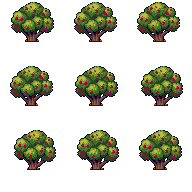
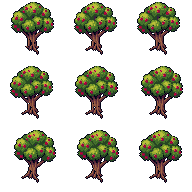
Pomar: tira só a terra do pé da árvore adulta e mantém o tronco inteiro com as raízes
Claude-Session: https://claude.ai/code/session_012SXtDuxjuZQWwiQVR1hLfA

diff --git a/tools/assets/strip_tree_base.py b/tools/assets/strip_tree_base.py
@@ -1,44 +1,60 @@
 # Uso: python3 -I tools/assets/strip_tree_base.py <entrada.png> <saida.png> <colunasxlinhas>
-# tira o quadrado de terra do pé da árvore adulta: corta logo abaixo da "cintura" do tronco (linha mais estreita
-# entre a copa e o quadrado), deixa 2 linhas de raiz e põe um contorno escuro embaixo
+# Tira o quadrado de terra do pé da árvore adulta sem cortar o tronco: da "cintura" do tronco para baixo fica só o que
+# tem a cor do tronco e das raízes e está ligado ao tronco (a terra tem outras cores na paleta); depois põe contorno escuro.
 import sys
+from collections import deque
 from PIL import Image
+
+# paleta da arte do dono (pixel art: cores exatas)
+TRUNK = {0x5d2d3c, 0x79453c, 0xa06245, 0x915841, 0x633441, 0x441534}
+OUTLINE = (2, 3, 24, 255)
+
+
+def rgb(p):
+    return (p[0] << 16) | (p[1] << 8) | p[2]
+
+
 def is_green(p):
-    r,g,b,a=p; return a and g>r and g>b-10
-def strip_frame(im, root_rows=2):
-    im=im.copy(); px=im.load(); W,H=im.size
-    rows=[]
+    r, g, b, a = p
+    return a and g > r and g > b - 10
+
+
+def strip_frame(im):
+    im = im.copy(); px = im.load(); W, H = im.size
+    rows = []
     for y in range(H):
-        xs=[x for x in range(W) if px[x,y][3]]
-        rows.append((min(xs),max(xs),sum(1 for x in xs if is_green(px[x,y]))) if xs else None)
-    # 1ª linha sem copa (menos de 3 verdes) depois de uma linha com copa
-    start=None
-    for y in range(1,H):
-        if rows[y] and rows[y-1] and rows[y-1][2]>=6 and rows[y][2]<3: start=y; break
+        xs = [x for x in range(W) if px[x, y][3]]
+        rows.append((min(xs), max(xs), sum(1 for x in xs if is_green(px[x, y]))) if xs else None)
+    # 1ª linha sem copa (menos de 3 verdes) logo depois de uma linha com copa = começo do tronco
+    start = next((y for y in range(1, H) if rows[y] and rows[y - 1] and rows[y - 1][2] >= 6 and rows[y][2] < 3), None)
     if start is None: return im
-    cand=[y for y in range(start,min(H,start+14)) if rows[y]]
-    waist=min(cand,key=lambda y: rows[y][1]-rows[y][0])
-    a,b=rows[waist][0],rows[waist][1]
-    cut=waist+1
-    for y in range(cut,H):
-        k=y-cut
+    cand = [y for y in range(start, min(H, start + 14)) if rows[y]]
+    waist = min(cand, key=lambda y: rows[y][1] - rows[y][0])
+    # tronco e raízes: cor de tronco ligada à cintura (4 vizinhos), da cintura para baixo
+    keep = set()
+    q = deque((x, waist) for x in range(W) if px[x, waist][3] and rgb(px[x, waist]) in TRUNK)
+    while q:
+        x, y = q.popleft()
+        if (x, y) in keep or not (0 <= x < W and waist <= y < H): continue
+        if not px[x, y][3] or rgb(px[x, y]) not in TRUNK: continue
+        keep.add((x, y))
+        q.extend([(x + 1, y), (x - 1, y), (x, y + 1), (x, y - 1)])
+    for y in range(waist + 1, H):
         for x in range(W):
-            if not px[x,y][3]: continue
-            r,g,bb,_=px[x,y]
-            keep = k < root_rows and (a-1-k) <= x <= (b+1+k) and not (r>170 and g>110)
-            if not keep: px[x,y]=(0,0,0,0)
-    for x in range(W):
-        for y in range(H-1,-1,-1):
-            if px[x,y][3]:
-                if y+1<H and y>=cut-1: px[x,y+1]=(40,24,16,255)
-                break
+            if (x, y) not in keep: px[x, y] = (0, 0, 0, 0)
+    # contorno escuro de 1 px em volta do que ficou embaixo da cintura
+    edge = [(x + dx, y + dy) for (x, y) in keep for dx, dy in ((1, 0), (-1, 0), (0, 1)) if y + dy > waist]
+    for x, y in edge:
+        if 0 <= x < W and 0 <= y < H and not px[x, y][3]: px[x, y] = OUTLINE
     return im
-src, dst, grid = sys.argv[1], sys.argv[2], sys.argv[3]
-im=Image.open(src).convert('RGBA')
-cols,rws=map(int,grid.split('x')); fw,fh=im.width//cols, im.height//rws
-out=Image.new('RGBA',im.size,(0,0,0,0))
-for j in range(rws):
-    for i in range(cols):
-        f=im.crop((i*fw,j*fh,(i+1)*fw,(j+1)*fh))
-        out.paste(strip_frame(f),(i*fw,j*fh))
-out.save(dst)
+
+
+if __name__ == '__main__':
+    src, dst, grid = sys.argv[1], sys.argv[2], sys.argv[3]
+    im = Image.open(src).convert('RGBA')
+    cols, rws = map(int, grid.split('x')); fw, fh = im.width // cols, im.height // rws
+    out = Image.new('RGBA', im.size, (0, 0, 0, 0))
+    for j in range(rws):
+        for i in range(cols):
+            out.paste(strip_frame(im.crop((i * fw, j * fh, (i + 1) * fw, (j + 1) * fh))), (i * fw, j * fh))
+    out.save(dst)
